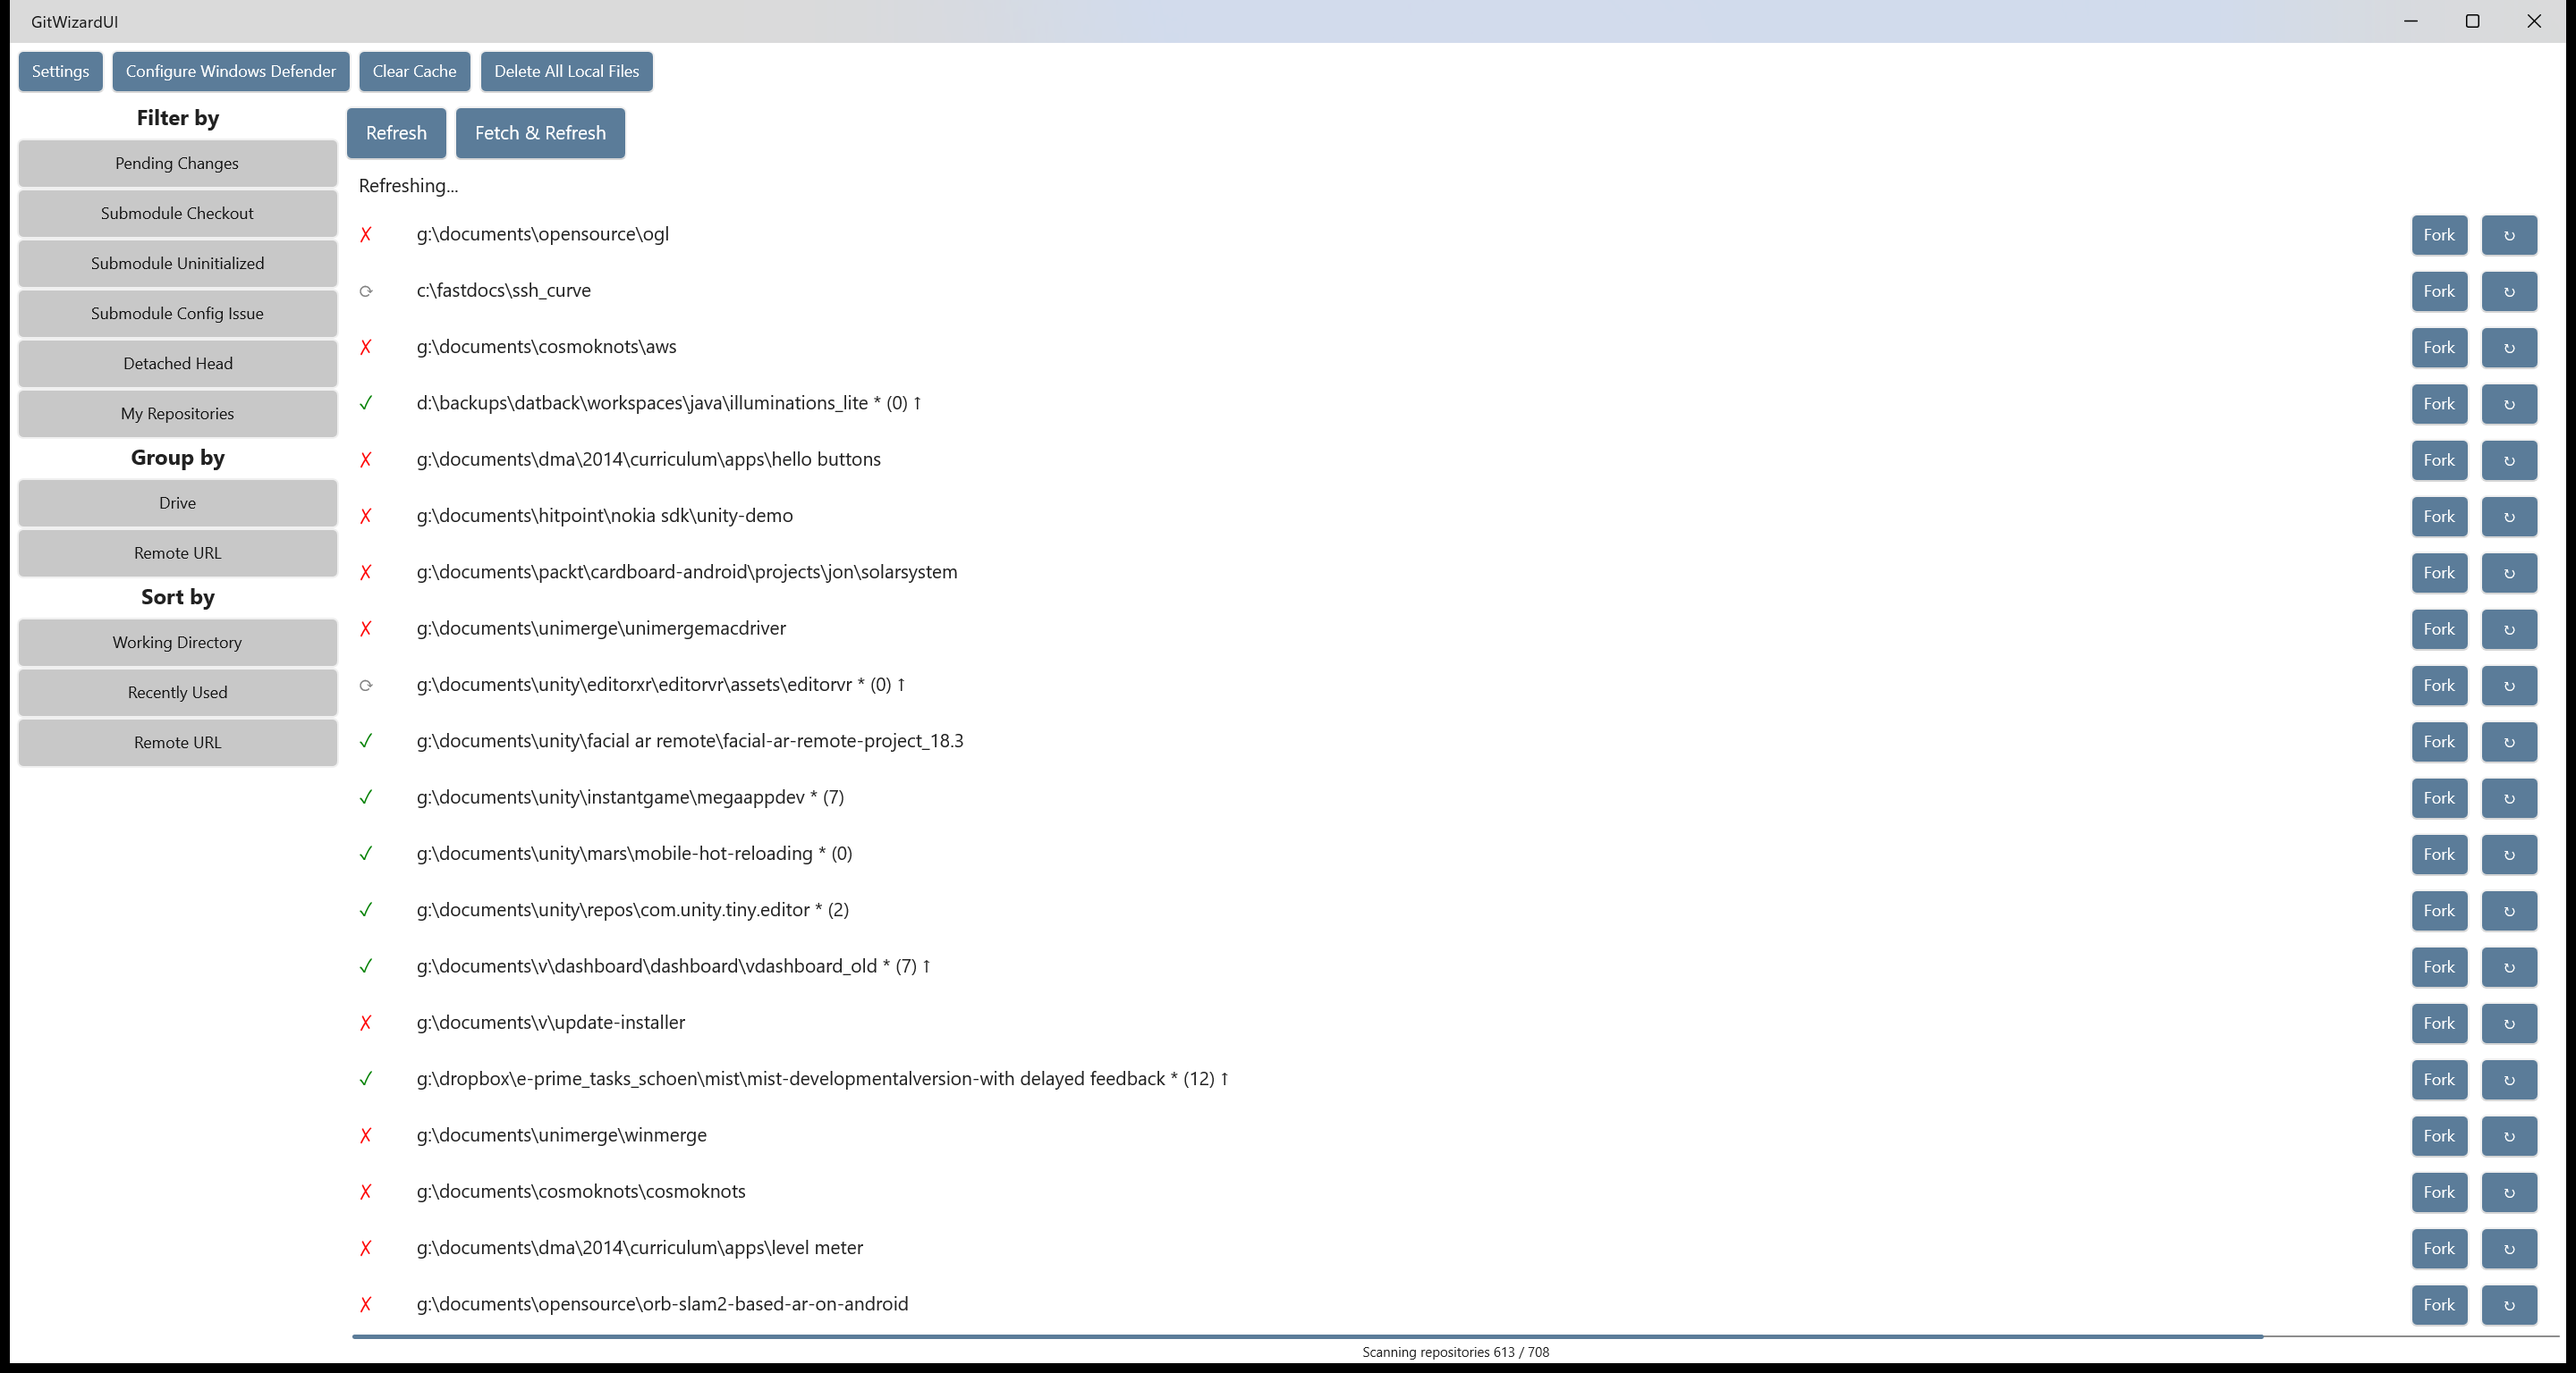
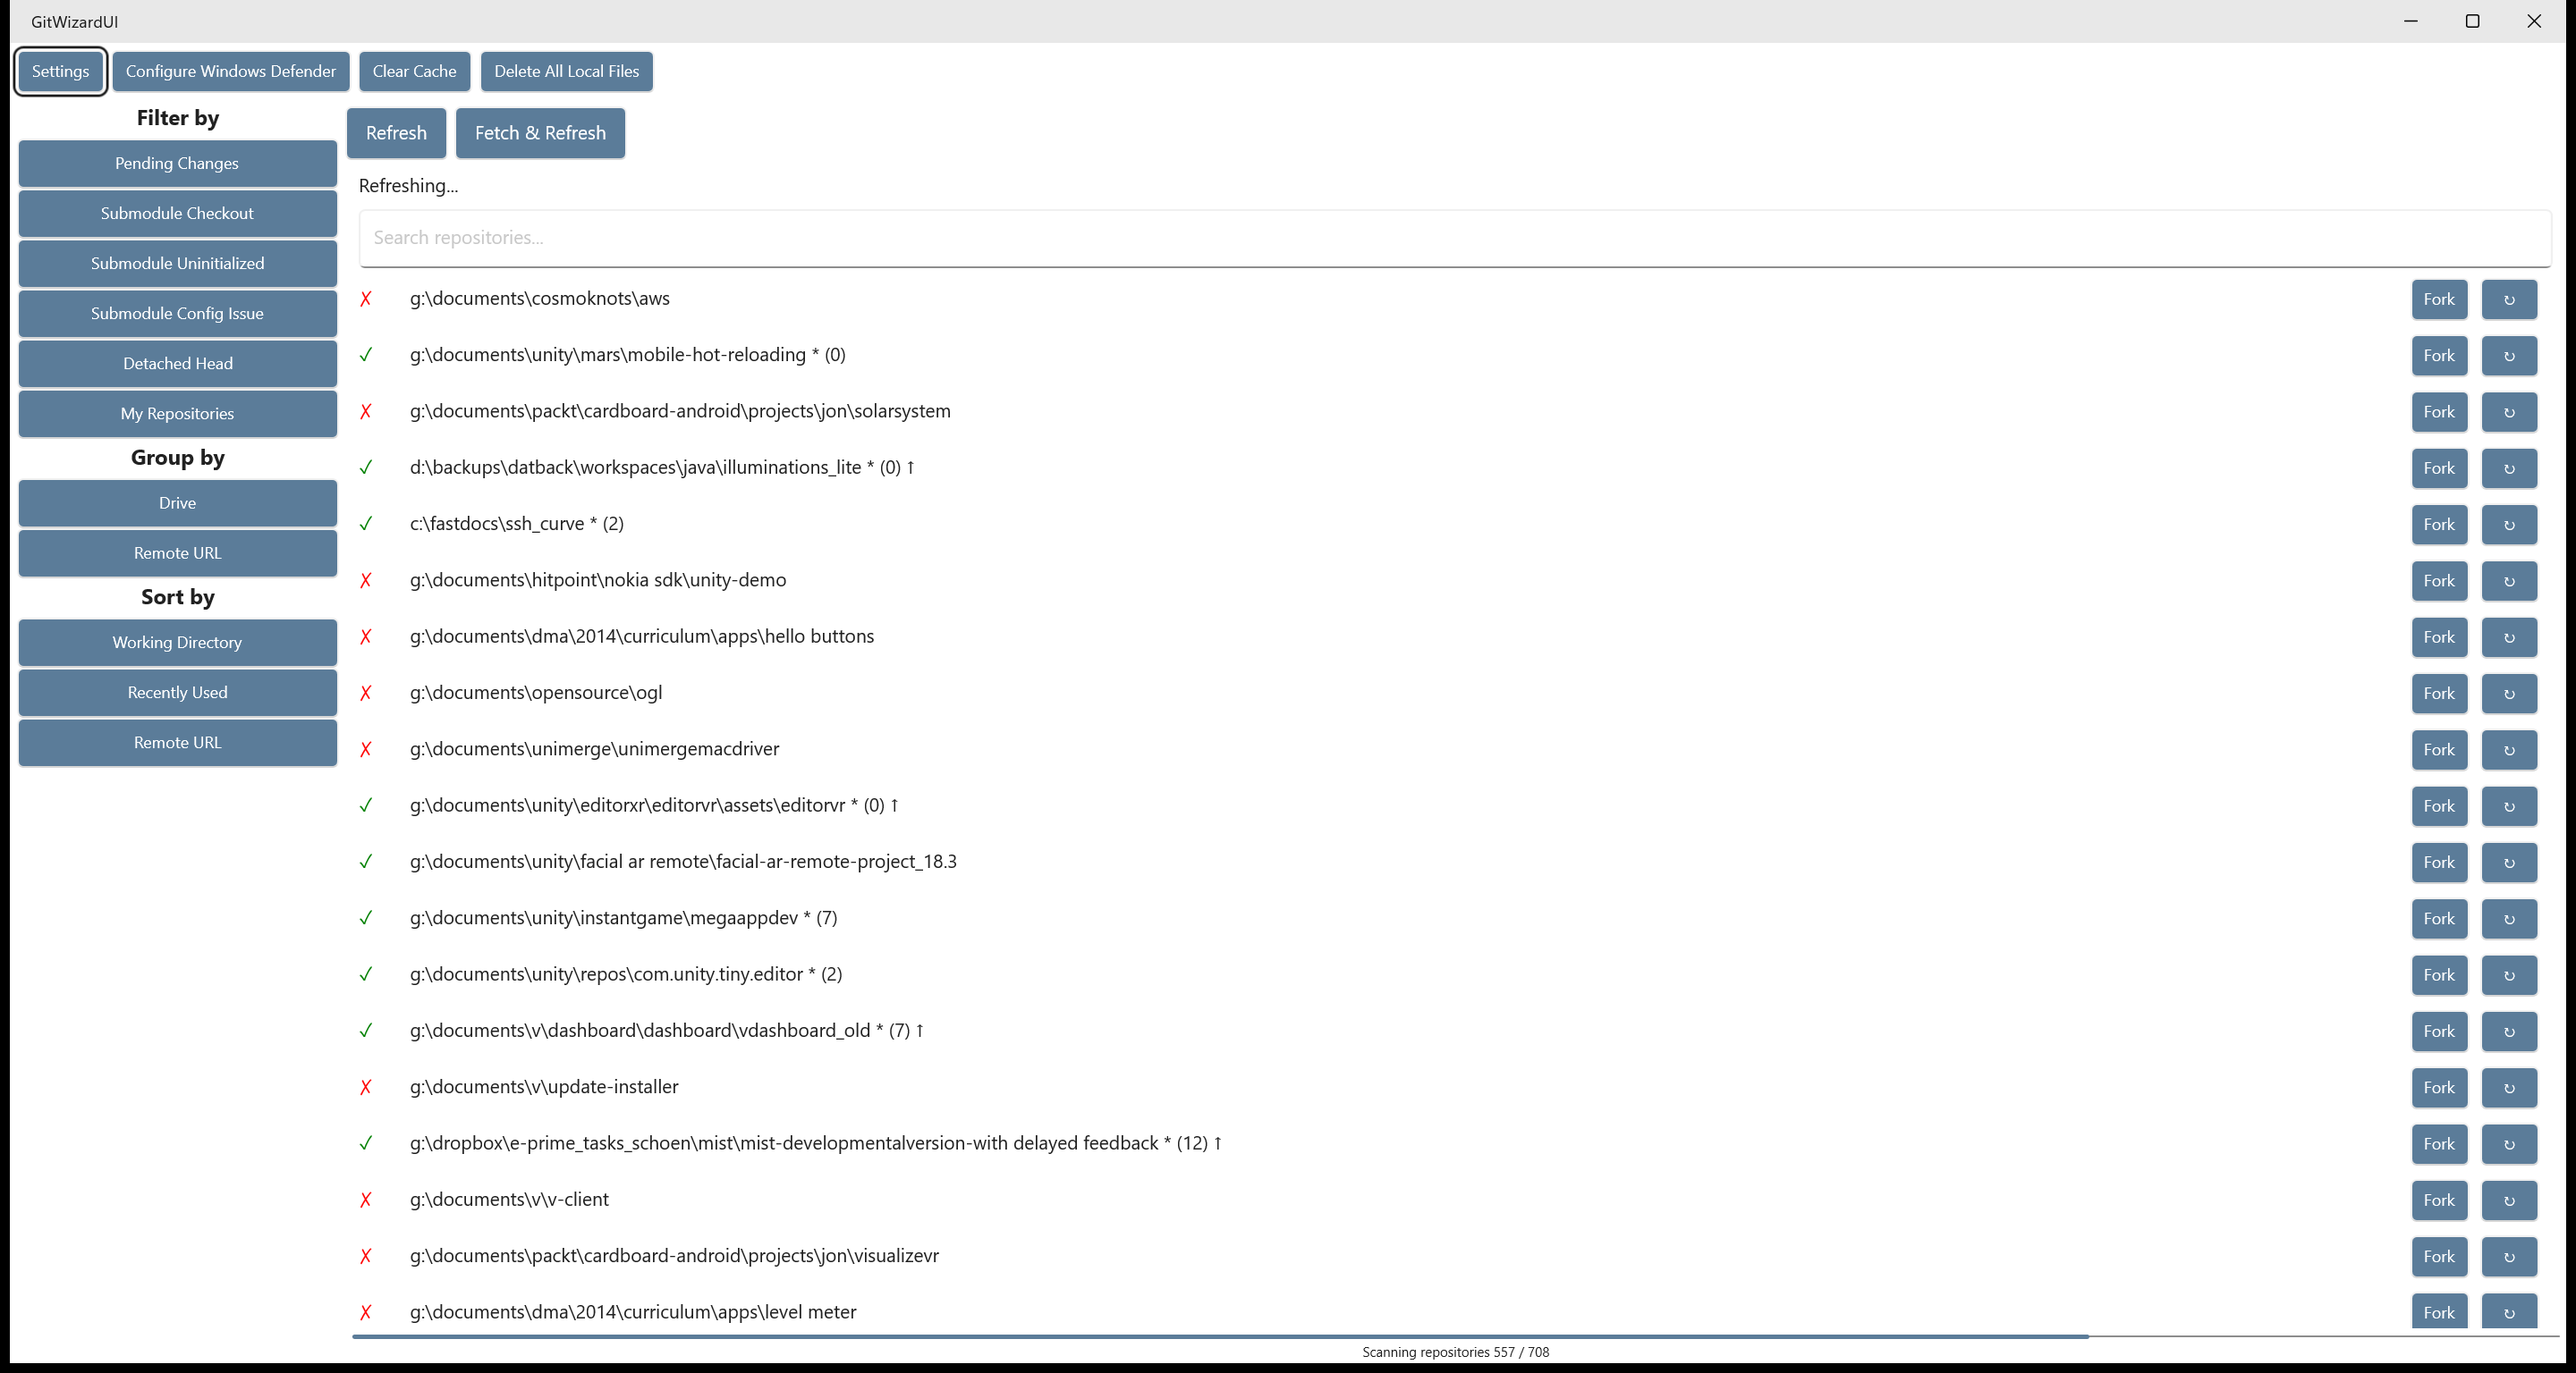
Add search, My Repositories filter, group improvements, and layout fixes
- Add text search box with 200ms debounce to filter repos by path
- Implement "My Repositories" filter: caches author emails from last 200
  commits per repo, matches against global git user.email
- Show error/warning counts in group headers (e.g. "group (5) — 2 errors")
- Apply active sort mode to items within each group
- Update parent group header display when child status changes
- Fix group indentation: move expand indicator to column 0, indent child
  rows under group headers instead of the other way around

diff --git a/GitWizardUI/MainPage.xaml b/GitWizardUI/MainPage.xaml
@@ -55,13 +55,16 @@
         <Grid Grid.Row="2" Grid.Column="1" Grid.RowSpan="3" >
             <Grid.RowDefinitions>
                 <RowDefinition Height="30" />
+                <RowDefinition Height="Auto" />
                 <RowDefinition Height="*" />
                 <RowDefinition Height="Auto" />
             </Grid.RowDefinitions>
 
             <Label Grid.Row="0" x:Name="Header" HorizontalTextAlignment="Start" VerticalTextAlignment="Center" Margin="10,0,0,0" Text="{Binding HeaderText}" />
 
-            <CollectionView Grid.Row="1" x:Name="RepositoryList" ItemsSource="{Binding Repositories}" ItemsUpdatingScrollMode="KeepScrollOffset">
+            <Entry Grid.Row="1" x:Name="SearchBox" Placeholder="Search repositories..." TextChanged="SearchBox_TextChanged" Margin="10,2" />
+
+            <CollectionView Grid.Row="2" x:Name="RepositoryList" ItemsSource="{Binding Repositories}" ItemsUpdatingScrollMode="KeepScrollOffset">
                 <CollectionView.ItemTemplate>
                     <DataTemplate x:DataType="viewModels:RepositoryNodeViewModel">
                         <Grid Padding="5,5,20,5" ColumnSpacing="8">
@@ -74,6 +77,7 @@
                             <Grid.GestureRecognizers>
                                 <TapGestureRecognizer Command="{Binding Source={RelativeSource AncestorType={x:Type ContentPage}}, Path=BindingContext.OpenInExplorerCommand}" CommandParameter="{Binding .}" />
                             </Grid.GestureRecognizers>
+                            <!-- Status icon for repos, expand indicator for group headers -->
                             <Label Grid.Column="0"
                                    Text="{Binding StatusIcon}"
                                    TextColor="{Binding StatusColor}"
@@ -82,6 +86,12 @@
                                    VerticalTextAlignment="Center"
                                    ToolTipProperties.Text="{Binding StatusTooltip}"
                                    IsVisible="{Binding IsStatusVisible}" />
+                            <Label Grid.Column="0"
+                                   Text="{Binding ExpandIndicator}"
+                                   FontSize="12"
+                                   HorizontalTextAlignment="Center"
+                                   VerticalTextAlignment="Center"
+                                   IsVisible="{Binding IsGroupHeader}" />
                             <Label Grid.Column="1"
                                    Text="{Binding DisplayText}"
                                    VerticalTextAlignment="Center"
@@ -109,7 +119,7 @@
                 </CollectionView.ItemTemplate>
             </CollectionView>
 
-            <StackLayout Grid.Row="2" IsVisible="{Binding IsProgressVisible}" Padding="5,2" Spacing="2">
+            <StackLayout Grid.Row="3" IsVisible="{Binding IsProgressVisible}" Padding="5,2" Spacing="2">
                 <ProgressBar Progress="{Binding ProgressValue}" HeightRequest="8" />
                 <Label HorizontalTextAlignment="Center" VerticalTextAlignment="Center" FontSize="10" Text="{Binding ProgressText}" />
             </StackLayout>

diff --git a/GitWizardUI/ViewModels/MainViewModel.cs b/GitWizardUI/ViewModels/MainViewModel.cs
@@ -25,6 +25,8 @@ public class MainViewModel : INotifyPropertyChanged, IUpdateHandler
     GroupMode _activeGroupMode = GroupMode.None;
     SortMode _activeSortMode = SortMode.WorkingDirectory;
     string? _lastRefreshMessage;
+    string _searchText = string.Empty;
+    public static string? GlobalUserEmail { get; private set; }
 
     string? _progressDescription;
     int? _progressTotal;
@@ -393,6 +395,12 @@ public class MainViewModel : INotifyPropertyChanged, IUpdateHandler
         ApplyFilterAndGrouping();
     }
 
+    public void SetSearchText(string text)
+    {
+        _searchText = text;
+        ApplyFilterAndGrouping();
+    }
+
     void ApplyFilterAndGrouping()
     {
         _pendingGroups.Clear();
@@ -400,6 +408,9 @@ public class MainViewModel : INotifyPropertyChanged, IUpdateHandler
         var filtered = _activeFilter == FilterType.None
             ? _allRepositories
             : _allRepositories.Where(r => r.MatchesFilter(_activeFilter)).ToList();
+
+        if (!string.IsNullOrWhiteSpace(_searchText))
+            filtered = filtered.Where(r => r.WorkingDirectory.Contains(_searchText, StringComparison.OrdinalIgnoreCase)).ToList();
 
         var sorted = ApplySort(filtered);
 
@@ -425,7 +436,7 @@ public class MainViewModel : INotifyPropertyChanged, IUpdateHandler
                     continue;
 
                 var header = RepositoryNodeViewModel.CreateGroupHeader(group.Key);
-                foreach (var repo in group.Value)
+                foreach (var repo in ApplySort(group.Value))
                     header.Children.Add(repo);
 
                 // Update display text now that children are added (so count is correct)
@@ -634,6 +645,10 @@ public class MainViewModel : INotifyPropertyChanged, IUpdateHandler
         if (!node.MatchesFilter(_activeFilter))
             return;
 
+        if (!string.IsNullOrWhiteSpace(_searchText) &&
+            !node.WorkingDirectory.Contains(_searchText, StringComparison.OrdinalIgnoreCase))
+            return;
+
         if (_activeGroupMode == GroupMode.None)
         {
             Repositories.Add(node);
@@ -685,8 +700,18 @@ public class MainViewModel : INotifyPropertyChanged, IUpdateHandler
 
             UpdateHeaderWithFilterInfo();
         }
-        // When grouping is active, nodes are already in group children — just let Update() handle display text.
-        // Full group rebuild only happens on explicit toggle or at end of refresh.
+        // When grouping is active, update the parent group header to reflect error/warning counts
+        if (_activeGroupMode != GroupMode.None)
+        {
+            foreach (var item in Repositories)
+            {
+                if (item.IsGroupHeader && item.Children.Contains(node))
+                {
+                    item.UpdateDisplayText();
+                    break;
+                }
+            }
+        }
     }
 
     public async Task RefreshAsync(bool background = false, bool fetchRemotes = false)
@@ -696,6 +721,31 @@ public class MainViewModel : INotifyPropertyChanged, IUpdateHandler
 
         IsRefreshing = true;
         HeaderText = fetchRemotes ? "Fetching remotes and refreshing..." : "Refreshing...";
+
+        // Read global git user email for "My Repositories" filter
+        if (GlobalUserEmail == null)
+        {
+            try
+            {
+                var psi = new ProcessStartInfo
+                {
+                    FileName = "git",
+                    Arguments = "config --global user.email",
+                    RedirectStandardOutput = true,
+                    UseShellExecute = false,
+                    CreateNoWindow = true
+                };
+                using var process = Process.Start(psi);
+                if (process != null)
+                {
+                    GlobalUserEmail = (await process.StandardOutput.ReadToEndAsync()).Trim();
+                }
+            }
+            catch
+            {
+                // Ignore — filter will just not match anything
+            }
+        }
         Repositories.Clear();
         _allRepositories.Clear();
         _repositoryMap.Clear();

diff --git a/GitWizardUI/ViewModels/RepositoryNodeViewModel.cs b/GitWizardUI/ViewModels/RepositoryNodeViewModel.cs
@@ -26,7 +26,7 @@ public class RepositoryNodeViewModel : INotifyPropertyChanged
 
     public bool IsNotGroupHeader => !IsGroupHeader;
     public FontAttributes GroupHeaderFontAttributes => IsGroupHeader ? FontAttributes.Bold : FontAttributes.None;
-    public Thickness ItemPadding => IsGroupHeader ? new Thickness(0, 10, 0, 0) : new Thickness(20, 0, 0, 0);
+    public Thickness ItemPadding => IsGroupHeader ? new Thickness(0, 5, 0, 0) : new Thickness(15, 0, 0, 0);
 
     public bool IsExpanded
     {
@@ -87,6 +87,8 @@ public class RepositoryNodeViewModel : INotifyPropertyChanged
 
     public bool IsStatusVisible => !IsGroupHeader;
 
+    public string ExpandIndicator => IsExpanded ? "▼" : "▶";
+
     public string DisplayText
     {
         get => _displayText;
@@ -140,8 +142,14 @@ public class RepositoryNodeViewModel : INotifyPropertyChanged
     {
         if (IsGroupHeader)
         {
-            var indicator = IsExpanded ? "▼" : "▶";
-            DisplayText = $"{indicator} {GroupKey} ({Children.Count})";
+            var errorCount = Children.Count(c => c.Status == RefreshStatus.Error);
+            var warningCount = Children.Count(c => c.Status == RefreshStatus.Timeout);
+            var suffix = "";
+            if (errorCount > 0) suffix += $" {errorCount} error{(errorCount > 1 ? "s" : "")}";
+            if (warningCount > 0) suffix += $" {warningCount} warning{(warningCount > 1 ? "s" : "")}";
+            if (suffix.Length > 0) suffix = " —" + suffix;
+            DisplayText = $"{GroupKey} ({Children.Count}){suffix}";
+            OnPropertyChanged(nameof(ExpandIndicator));
             return;
         }
 
@@ -172,9 +180,18 @@ public class RepositoryNodeViewModel : INotifyPropertyChanged
             FilterType.SubmoduleUninitialized => HasUninitializedSubmodules(),
             FilterType.SubmoduleConfigIssue => HasSubmoduleConfigIssues(),
             FilterType.DetachedHead => HasDetachedHeadRecursive(),
-            FilterType.MyRepositories => false, // TODO: Requires git global user.email lookup
+            FilterType.MyRepositories => IsMyRepository(),
             _ => true
         };
+    }
+
+    bool IsMyRepository()
+    {
+        var email = MainViewModel.GlobalUserEmail;
+        if (string.IsNullOrEmpty(email) || Repository.AuthorEmails == null)
+            return false;
+
+        return Repository.AuthorEmails.Contains(email);
     }
 
     bool HasPendingChangesRecursive()

diff --git a/GitWizardUI/MainPage.xaml.cs b/GitWizardUI/MainPage.xaml.cs
@@ -8,6 +8,7 @@ public partial class MainPage : ContentPage
     private readonly MainViewModel _viewModel;
     private Button? _activeFilterButton;
     private Button? _activeGroupButton;
+    private CancellationTokenSource? _searchDebounce;
 
     public MainPage()
     {
@@ -142,6 +143,23 @@ public partial class MainPage : ContentPage
         if (button == SortByRecentlyUsed) return SortMode.RecentlyUsed;
         if (button == SortByRemoteUrl) return SortMode.RemoteUrl;
         return SortMode.WorkingDirectory;
+    }
+
+    async void SearchBox_TextChanged(object sender, TextChangedEventArgs e)
+    {
+        _searchDebounce?.Cancel();
+        _searchDebounce = new CancellationTokenSource();
+        var token = _searchDebounce.Token;
+
+        try
+        {
+            await Task.Delay(200, token);
+            _viewModel.SetSearchText(e.NewTextValue ?? string.Empty);
+        }
+        catch (TaskCanceledException)
+        {
+            // Debounce cancelled — newer keystroke took over
+        }
     }
 
     FilterType GetFilterType(Button button)

diff --git a/GitWizard/GitWizardRepository.cs b/GitWizard/GitWizardRepository.cs
@@ -21,6 +21,7 @@ public class GitWizardRepository
     public DateTimeOffset? LastCommitDate { get; private set; }
     public double RefreshTimeSeconds { get; set; }
     public string? RefreshError { get; set; }
+    public HashSet<string>? AuthorEmails { get; private set; }
 
     GitWizardRepository() { }
 
@@ -124,6 +125,20 @@ public class GitWizardRepository
                         LocalOnlyCommits = true;
                     }
                 }
+            }
+
+            // Cache author emails for "My Repositories" filter
+            try
+            {
+                AuthorEmails = new HashSet<string>(StringComparer.OrdinalIgnoreCase);
+                foreach (var commit in repository.Commits.Take(200))
+                {
+                    AuthorEmails.Add(commit.Author.Email);
+                }
+            }
+            catch (Exception exception)
+            {
+                GitWizardLog.LogException(exception, $"Exception collecting author emails for {WorkingDirectory}");
             }
 
             IsRefreshing = false;
